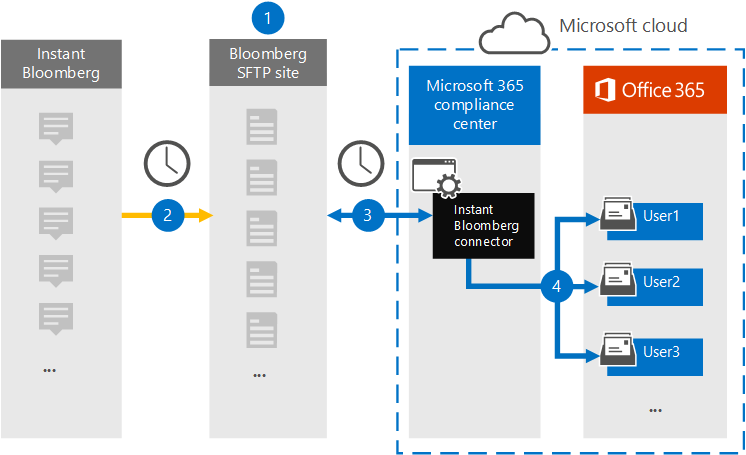
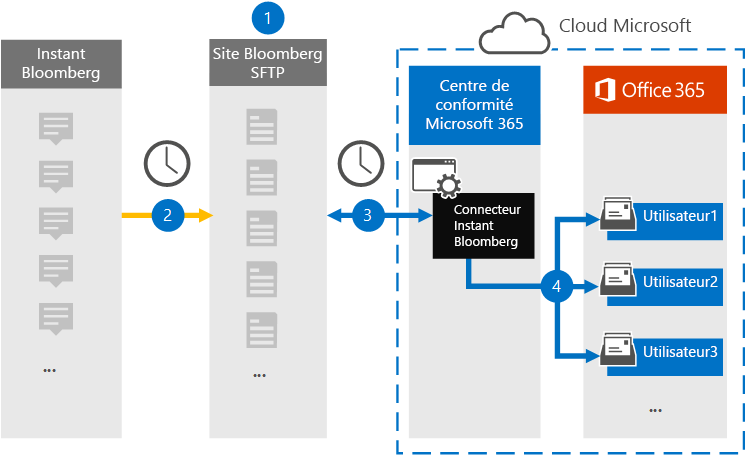
commit translated contents

diff --git a/microsoft-365/admin/email/office-365-user-email-settings.md b/microsoft-365/admin/email/office-365-user-email-settings.md
@@ -14,12 +14,12 @@ ms.collection:
 localization_priority: Priority
 ms.assetid: 03083fdf-bc52-409a-b2ac-2a5f5c308fa0
 description: Cet article vous offre des informations sur la gestion des paramètres pour vos utilisateurs.
-ms.openlocfilehash: 7f79f90c9fe94596a5901d8ce9e6b31ba0af881e
-ms.sourcegitcommit: ca2b58ef8f5be24f09e73620b74a1ffcf2d4c290
+ms.openlocfilehash: f746ce5119dbd26ff05e3a3008e91cc1e3141e95
+ms.sourcegitcommit: 4ddbc1c3c29d79d3c4640b7b32f95576784efcca
 ms.translationtype: HT
 ms.contentlocale: fr-FR
-ms.lasthandoff: 02/24/2020
-ms.locfileid: "42253012"
+ms.lasthandoff: 04/13/2020
+ms.locfileid: "43240190"
 ---
 # <a name="office-365-user-email-settings"></a>Paramètres du courrier électronique de l’utilisateur Office 365
 
@@ -33,8 +33,12 @@ Le tableau suivant présente les différents paramètres de courrier que vous po
 |Paramètre de courrier Outlook|Description  |
 |---------|---------|
 |Autorisations de boîtes aux lettres| **Lire et gérer** vous permet de définir si des utilisateurs peuvent lire et gérer les boîtes aux lettres d’autres personnes. Vous pouvez également définir les autorisations **Envoyer en tant que** et **Envoyer de la part de** pour une personne. Pour plus d'informations, consultez [Accorder des autorisations de boîte aux lettres à un autre utilisateur dans Office 365 – Aide de l’administrateur](../add-users/give-mailbox-permissions-to-another-user.md). |
-|Applications de messagerie électronique| Les applications de courrier vous permettent de sélectionne les applications qu'un utilisateur peut utiliser pour accéder à son courrier Office 365. |
+|Applications d’e-mail <sup>1</sup>| Les applications de courrier vous permettent de sélectionne les applications qu'un utilisateur peut utiliser pour accéder à son courrier Office 365. |
 |Afficher dans une liste d’adresses globale| Afficher dans une liste d’adresses globale vous permet d’activer ou de désactiver la visibilité de la boîte aux lettres de l’utilisateur dans la liste d’adresses de l’organisation. |
 |Transfert de messages électroniques|Le transfert de courrier électronique vous permet de transférer une adresse de messagerie vers un utilisateur. Vous pouvez procéder de la sorte si la personne a plusieurs adresses de courrier et qu’elle souhaite recevoir les e-mails de toutes ses adresses de courrier. Pour plus d’informations, voir [Configurer le transfert de courrier dans Office 365](configure-email-forwarding.md).|
 |Réponses automatiques|Réponses automatiques vous permet de définir une réponse automatique lorsqu’une personne envoie un e-mail vers l’adresse de courrier d'une personne. Vous pouvez procéder de la sorte si un employé quitte votre entreprise et que vous voulez informer l’expéditeur du courrier.|
 |Autres actions| **Conversion en boîte aux lettres partagée** vous permet de convertir la boîte aux lettres d'un utilisateur en boîte aux lettres partagée. Vous pouvez procéder de la sorte si la personne quitte votre organisation et que vous voulez conserver les données de sa boîte aux lettres pendant une certaine période. Consultez [Convertir une boîte aux lettres d’utilisateur en boîte aux lettres partagée](convert-user-mailbox-to-shared-mailbox.md) et [Ouvrir et utiliser une boîte aux lettres partagée](https://support.office.com/article/open-and-use-a-shared-mailbox-in-outlook-d94a8e9e-21f1-4240-808b-de9c9c088afd).</br>**Modifier les propriétés Exchange** vous permet de gérer d’autres tâches Exchange Online en utilisant le Centre d’administration Exchange. Voir la [Gestion de boîtes aux lettres utilisateur dans Exchange Online](https://docs.microsoft.com/exchange/recipients-in-exchange-online/manage-user-mailboxes/manage-user-mailboxes).|
+
+> [!NOTE]
+>
+> <sup>1</sup> Vous pouvez uniquement gérer les applications d’e-mail pour les boîtes aux lettres hébergées entièrement dans Office 365. Vous ne pouvez pas utiliser cette fonctionnalité afin de gérer les applications d’e-mail pour les boîtes aux lettres hébergées en local.

diff --git a/microsoft-365/compliance/retention-policies.md b/microsoft-365/compliance/retention-policies.md
@@ -17,12 +17,12 @@ search.appverid:
 - MOE150
 - MET150
 description: Une stratégie de rétention vous permet de décider de façon proactive de conserver du contenu, de le supprimer (ou les deux), de conserver du contenu, puis de le supprimer ; d’appliquer une stratégie unique à l’ensemble de l’organisation ou à quelques emplacements ou utilisateurs ; et d’appliquer une stratégie à tout le contenu ou au contenu remplissant certaines conditions.
-ms.openlocfilehash: ffbc8026b8a0b1f85916c7697625bfa0935e275f
-ms.sourcegitcommit: 732bb72a0b5ae09cb39536185aa29d6097ec72fd
+ms.openlocfilehash: d06ad19ab247384f800b3b38c561ad8eb33d4066
+ms.sourcegitcommit: 9cea48e1b26e0465c00f8d053080cba1143970c2
 ms.translationtype: HT
 ms.contentlocale: fr-FR
-ms.lasthandoff: 04/08/2020
-ms.locfileid: "43189049"
+ms.lasthandoff: 04/13/2020
+ms.locfileid: "43237641"
 ---
 # <a name="overview-of-retention-policies"></a>Vue d’ensemble des stratégies de rétention
 
@@ -301,7 +301,7 @@ Vous pouvez utiliser une stratégie de rétention pour conserver des conversatio
 Les conversations et les messages de canal Teams ne sont pas affectés par les stratégies de rétention appliquées aux boîtes aux lettres d’utilisateur ou de groupe dans les emplacements Exchange ou les groupes Office 365. Même si les conversations et les messages de canal Teams sont stockés dans Exchange, ces éléments sont uniquement affectés par une stratégie de rétention appliquée à l’emplacement Teams.
 
 > [!NOTE]
-> Si un utilisateur est inclus dans une stratégie de rétention active conservant les données de Teams, la suppression de sa boîte aux lettres n'est dans ce cas pas autorisée, car le stockage des données doit être maintenu. Pour supprimer la boîte aux lettres de cet utilisateur, l’administrateur doit tout d’abord exclure l’utilisateur de la stratégie de rétention.
+> Si un utilisateur est inclus dans une stratégie de rétention active qui conserve les données Teams et que vous supprimez une boîte aux lettres d’un utilisateur inclus dans cette stratégie, pour conserver les données, la boîte aux lettres est convertie en [boîte aux lettres inactive](inactive-mailboxes-in-office-365.md). Si vous n’avez pas besoin de conserver ces données pour l’utilisateur, excluez-le de la stratégie de rétention avant de supprimer sa boîte aux lettres.
   
 Lorsqu’une stratégie de rétention est affectée à une équipe, les conversations et les messages de canal suivent l’un des deux chemins suivants :
 
